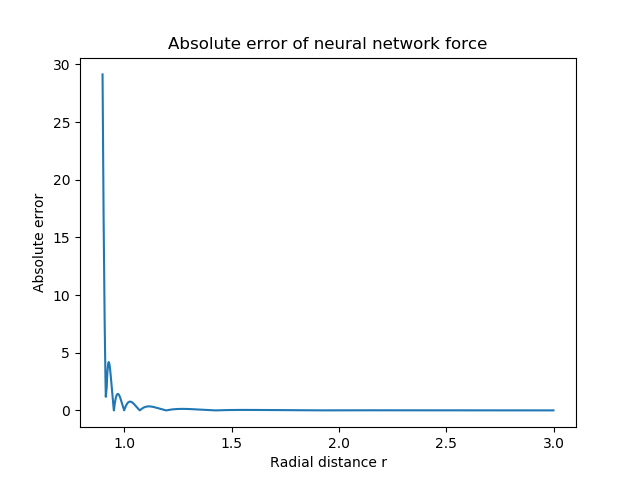
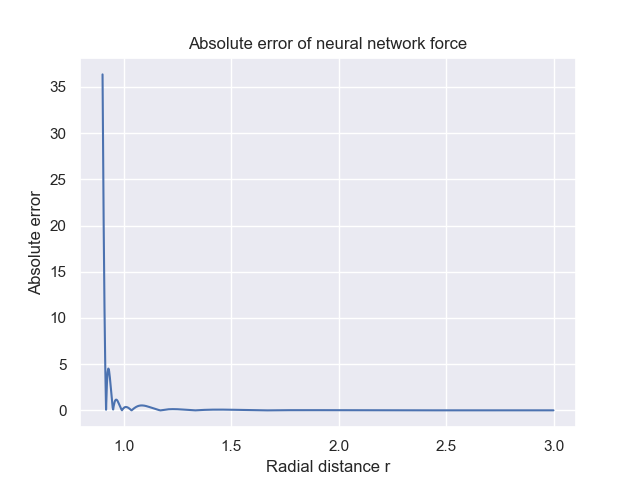
Slight changes...

diff --git a/overfit/main.py b/overfit/main.py
@@ -14,8 +14,11 @@ if __name__ == "__main__":
     elements = ["Cu"]
     size = (2, 2, 2)
     temp = 500
+    n_train = int(8e4)
     n_test = int(2e4)
     save_interval = 100
+    train_traj = "training.traj"
+    test_traj = "test.traj"
 
     max_steps = int(2e3)
     convergence = {"energy_rmse": 1e-16, "force_rmse": None, "max_steps": max_steps}
@@ -31,38 +34,36 @@ if __name__ == "__main__":
     trn.create_Gs(elements, num_radial_etas, num_angular_etas, num_zetas, angular_type)
 
     trjbd = TrajectoryBuilder()
-    n_images = [10, 20, 50, 100, 200, 500, 1000, 2000, 5000, 10000]
-    train_trajs = ["training_n{}.traj".format(ni) for ni in n_images]
-    test_traj = "test.traj"
-    for i in range(len(n_images)):
-        calc = EMT()
-        train_atoms = trjbd.build_atoms(system, size, temp, calc)
-        n_train = n_images[i] * save_interval
-        steps, train_trajs[i] = trjbd.integrate_atoms(
-            train_atoms, train_trajs[i], n_train, save_interval
-        )
-
+    calc = EMT()
+    train_atoms = trjbd.build_atoms(system, size, temp, calc)
     calc = EMT()
     test_atoms = trjbd.build_atoms(system, size, temp, calc)
+
+    steps, train_traj = trjbd.integrate_atoms(
+        train_atoms, train_traj, n_train, save_interval
+    )
     steps, test_traj = trjbd.integrate_atoms(
         test_atoms, test_traj, n_test, save_interval
     )
 
+    overfits = [10**(-i) for i in range(7)]
+    dblabel = "amp-train"
     calcs = {}
-    for i in range(len(n_images)):
-        label = "n{}".format(n_images[i])
-        dblabel = label + "-train"
+    for of in overfit:
+        trn.overfit = of
+        label = "o{}".format(of)
         calc = trn.create_calc(label=label, dblabel=dblabel)
         ann = Annealer(
             calc=calc,
-            images=train_trajs[i],
+            images=train_traj,
             Tmax=20,
             Tmin=1,
             steps=2000,
             train_forces=False,
         )
-        amp_name = trn.train_calc(calc, train_trajs[i])
+        amp_name = trn.train_calc(calc, train_traj)
         calcs[label] = amp_name
 
-    columns = ["Number of images", "Energy RMSE", "Force RMSE"]
-    trn.test_calculators(calcs, test_traj, columns)
+    columns = ["Activation/Hidden layers", "Energy RMSE", "Force RMSE"]
+    dblabel = "amp-test"
+    trn.test_calculators(calcs, test_traj, columns, dblabel=dblabel)

diff --git a/stillinger-weber/main.py b/stillinger-weber/main.py
@@ -18,18 +18,20 @@ if __name__ == "__main__":
     elements = ["Si"]
     size = (2, 2, 2)
     temp = 1000
-    n_train = int(2e6)
-    n_train_force = int(1e5)
+    n_train = int(8e5)
+    n_train_force = int(2e5)
     save_interval = 100
     timestep = 5.0
+    train_traj = "training.traj"
+    train_force_traj = "training_force.traj"
 
     max_steps = int(4e3)
     convergence = {"energy_rmse": 1e-16, "force_rmse": None, "max_steps": max_steps}
     force_coefficient = None
     hidden_layers = [10]
-    cutoff = Polynomial(5.0, gamma=5.0)
-    num_radial_etas = 7
-    num_angular_etas = 11
+    cutoff = Polynomial(6.0, gamma=5.0)
+    num_radial_etas = 8
+    num_angular_etas = 12
     num_zetas = 1
     angular_type = "G4"
     trn = Trainer(
@@ -44,8 +46,6 @@ if __name__ == "__main__":
     calc = OpenKIMcalculator("SW_StillingerWeber_1985_Si__MO_405512056662_005")
     train_atoms = trjbd.build_atoms(system, size, temp, calc)
 
-    train_traj = "training.traj"
-    train_force_traj = "training_force.traj"
     steps, train_traj = trjbd.integrate_atoms(
         train_atoms, train_traj, n_train, save_interval, timestep=timestep
     )
@@ -71,7 +71,7 @@ if __name__ == "__main__":
     calc = Amp.load(amp_name, label=label, dblabel=dblabel)
     convergence = {"energy_rmse": 1e-16, "force_rmse": 1e-16, "max_steps": max_steps}
     loss_function = LossFunction(
-        convergence=convergence, energy_coefficient=1.0, force_coefficient=0.1
+        convergence=convergence, energy_coefficient=1.0, force_coefficient=0.1, overfit=1e-3,
     )
     calc.model.lossfunction = loss_function
     amp_name = trn.train_calc(calc, train_force_traj)

diff --git a/emt-copper/main.py b/emt-copper/main.py
@@ -18,17 +18,19 @@ if __name__ == "__main__":
     elements = ["Cu"]
     size = (2, 2, 2)
     temp = 1000
-    n_train = int(2e6)
-    n_train_force = int(1e5)
+    n_train = int(8e5)
+    n_train_force = int(2e5)
     save_interval = 100
+    train_traj = "training.traj"
+    train_force_traj = "training_force.traj"
 
     max_steps = int(4e3)
     convergence = {"energy_rmse": 1e-16, "force_rmse": None, "max_steps": max_steps}
     force_coefficient = None
     hidden_layers = [10]
-    cutoff = Polynomial(5.0, gamma=5.0)
-    num_radial_etas = 4
-    num_angular_etas = 8
+    cutoff = Polynomial(6.0, gamma=5.0)
+    num_radial_etas = 8
+    num_angular_etas = 10
     num_zetas = 1
     angular_type = "G4"
     trn = Trainer(
@@ -43,8 +45,6 @@ if __name__ == "__main__":
     calc = EMT()
     train_atoms = trjbd.build_atoms(system, size, temp, calc)
 
-    train_traj = "training.traj"
-    train_force_traj = "training_force.traj"
     steps, train_traj = trjbd.integrate_atoms(
         train_atoms, train_traj, n_train, save_interval
     )
@@ -65,7 +65,7 @@ if __name__ == "__main__":
     calc = Amp.load(amp_name, label=label, dblabel=dblabel)
     convergence = {"energy_rmse": 1e-16, "force_rmse": 1e-16, "max_steps": max_steps}
     loss_function = LossFunction(
-        convergence=convergence, energy_coefficient=1.0, force_coefficient=0.1
+        convergence=convergence, energy_coefficient=1.0, force_coefficient=0.1, overfit=1e-3,
     )
     calc.model.lossfunction = loss_function
     amp_name = trn.train_calc(calc, train_force_traj)

diff --git a/cutoffs/main.py b/cutoffs/main.py
@@ -17,11 +17,13 @@ if __name__ == "__main__":
     n_train = int(8e4)
     n_test = int(2e4)
     save_interval = 100
+    train_traj = "training.traj"
+    test_traj = "test.traj"
 
     max_steps = int(2e3)
     convergence = {"energy_rmse": 1e-16, "force_rmse": None, "max_steps": max_steps}
     force_coefficient = None
-    num_radial_etas = 6
+    num_radial_etas = 8
     num_angular_etas = 10
     num_zetas = 1
     angular_type = "G4"
@@ -33,8 +35,6 @@ if __name__ == "__main__":
     calc = EMT()
     test_atoms = trjbd.build_atoms(system, size, temp, calc)
 
-    train_traj = "training.traj"
-    test_traj = "test.traj"
     steps, train_traj = trjbd.integrate_atoms(
         train_atoms, train_traj, n_train, save_interval
     )
@@ -43,10 +43,11 @@ if __name__ == "__main__":
     )
 
     rcs = [2.0, 3.0, 4.0, 5.0, 6.0, 7.0, 8.0]
+    gamma = 5.0
     cutoffs = []
     for rc in rcs:
         cutoffs.append(Cosine(rc))
-        cutoffs.append(Polynomial(rc, gamma=5.0))
+        cutoffs.append(Polynomial(rc, gamma=gamma))
 
     calcs = {}
     for cutoff in cutoffs:

diff --git a/symmetry-functions/main.py b/symmetry-functions/main.py
@@ -17,6 +17,8 @@ if __name__ == "__main__":
     n_train = int(8e4)
     n_test = int(2e4)
     save_interval = 100
+    train_traj = "training.traj"
+    test_traj = "test.traj"
 
     max_steps = int(2e3)
     convergence = {"energy_rmse": 1e-16, "force_rmse": None, "max_steps": max_steps}
@@ -32,8 +34,6 @@ if __name__ == "__main__":
     calc = EMT()
     test_atoms = trjbd.build_atoms(system, size, temp, calc)
 
-    train_traj = "training.traj"
-    test_traj = "test.traj"
     steps, train_traj = trjbd.integrate_atoms(
         train_atoms, train_traj, n_train, save_interval
     )
@@ -42,7 +42,7 @@ if __name__ == "__main__":
     )
 
     num_radial_etas = [4, 5, 6, 7, 8, 9, 10, 10]
-    num_angular_etas = [n + 4 for n in num_radial_etas]
+    num_angular_etas = [n + 2 for n in num_radial_etas]
     num_zetas = [1, 1, 1, 1, 1, 1, 1, 2]
     gammas = [1.0, -1.0]
     symm_funcs = {"Default": None}

diff --git a/tools/training.py b/tools/training.py
@@ -16,6 +16,7 @@ class Trainer:
         convergence=None,
         energy_coefficient=1.0,
         force_coefficient=None,
+        overfit=1e-3,
         hidden_layers=(10, 10),
         activation="tanh",
         cutoff=Cosine(6.0),
@@ -33,6 +34,7 @@ class Trainer:
 
         self.energy_coefficient = energy_coefficient
         self.force_coefficient = force_coefficient
+        self.overfit = overfit
         self.hidden_layers = hidden_layers
         self.activation = activation
         self.cutoff = cutoff
@@ -79,6 +81,7 @@ class Trainer:
                 convergence=self.convergence,
                 energy_coefficient=self.energy_coefficient,
                 force_coefficient=self.force_coefficient,
+                overfit=self.overfit,
             )
             model = NeuralNetwork(
                 hiddenlayers=self.hidden_layers,

diff --git a/activation-layers/main.py b/activation-layers/main.py
@@ -17,12 +17,14 @@ if __name__ == "__main__":
     n_train = int(8e4)
     n_test = int(2e4)
     save_interval = 100
+    train_traj = "training.traj"
+    test_traj = "test.traj"
 
     max_steps = int(2e3)
     convergence = {"energy_rmse": 1e-16, "force_rmse": None, "max_steps": max_steps}
     force_coefficient = None
     cutoff = Polynomial(6.0, gamma=5.0)
-    num_radial_etas = 6
+    num_radial_etas = 8
     num_angular_etas = 10
     num_zetas = 1
     angular_type = "G4"
@@ -37,8 +39,6 @@ if __name__ == "__main__":
     calc = EMT()
     test_atoms = trjbd.build_atoms(system, size, temp, calc)
 
-    train_traj = "training.traj"
-    test_traj = "test.traj"
     steps, train_traj = trjbd.integrate_atoms(
         train_atoms, train_traj, n_train, save_interval
     )

diff --git a/force-training/main.py b/force-training/main.py
@@ -19,10 +19,12 @@ if __name__ == "__main__":
     n_train = int(5e4)
     n_test = int(1e4)
     save_interval = 100
+    train_traj = "training.traj"
+    test_traj = "test.traj"
 
     max_steps = int(2e3)
     cutoff = Polynomial(6.0, gamma=5.0)
-    num_radial_etas = 6
+    num_radial_etas = 8
     num_angular_etas = 10
     num_zetas = 1
     angular_type = "G4"
@@ -35,8 +37,6 @@ if __name__ == "__main__":
     calc = EMT()
     test_atoms = trjbd.build_atoms(system, size, temp, calc)
 
-    train_traj = "training.traj"
-    test_traj = "test.traj"
     steps, train_traj = trjbd.integrate_atoms(
         train_atoms, train_traj, n_train, save_interval
     )

diff --git a/symmetry-functions/symmetry_plot.py b/symmetry-functions/symmetry_plot.py
@@ -15,7 +15,7 @@ if __name__ == "__main__":
     cutoff = Polynomial(6.0, gamma=5.0)
     elements = ["Cu"]
     num_radial_etas = 8
-    num_angular_etas = 12
+    num_angular_etas = 10
     num_zetas = 1
     angular_type = "G4"
     symm_funcs = {}
@@ -42,8 +42,8 @@ if __name__ == "__main__":
 
     for label, symm_func in symm_funcs.items():
         plter.plot_symmetry_functions(
-            label + "-rad.png",
-            label + "-ang.png",
+            label + "_rad.png",
+            label + "_ang.png",
             symm_func,
             rij=r,
             rdf=rdf,

diff --git a/tensorflow/lennard_jones.py b/tensorflow/lennard_jones.py
@@ -1,5 +1,6 @@
 import numpy as np
 import matplotlib.pyplot as plt
+import seaborn as sns
 import tensorflow as tf
 from tensorflow.keras import Model
 from tensorflow.keras.layers import Dense
@@ -40,6 +41,7 @@ def lennard_jones_data():
 
 
 def plot_network_and_derivative(x_test, y_test, model):
+    sns.set()
     lj_derivative = lambda r: -24 * (2 * r ** (-13) - r ** (-7))
 
     x_plot = x_test.copy()
